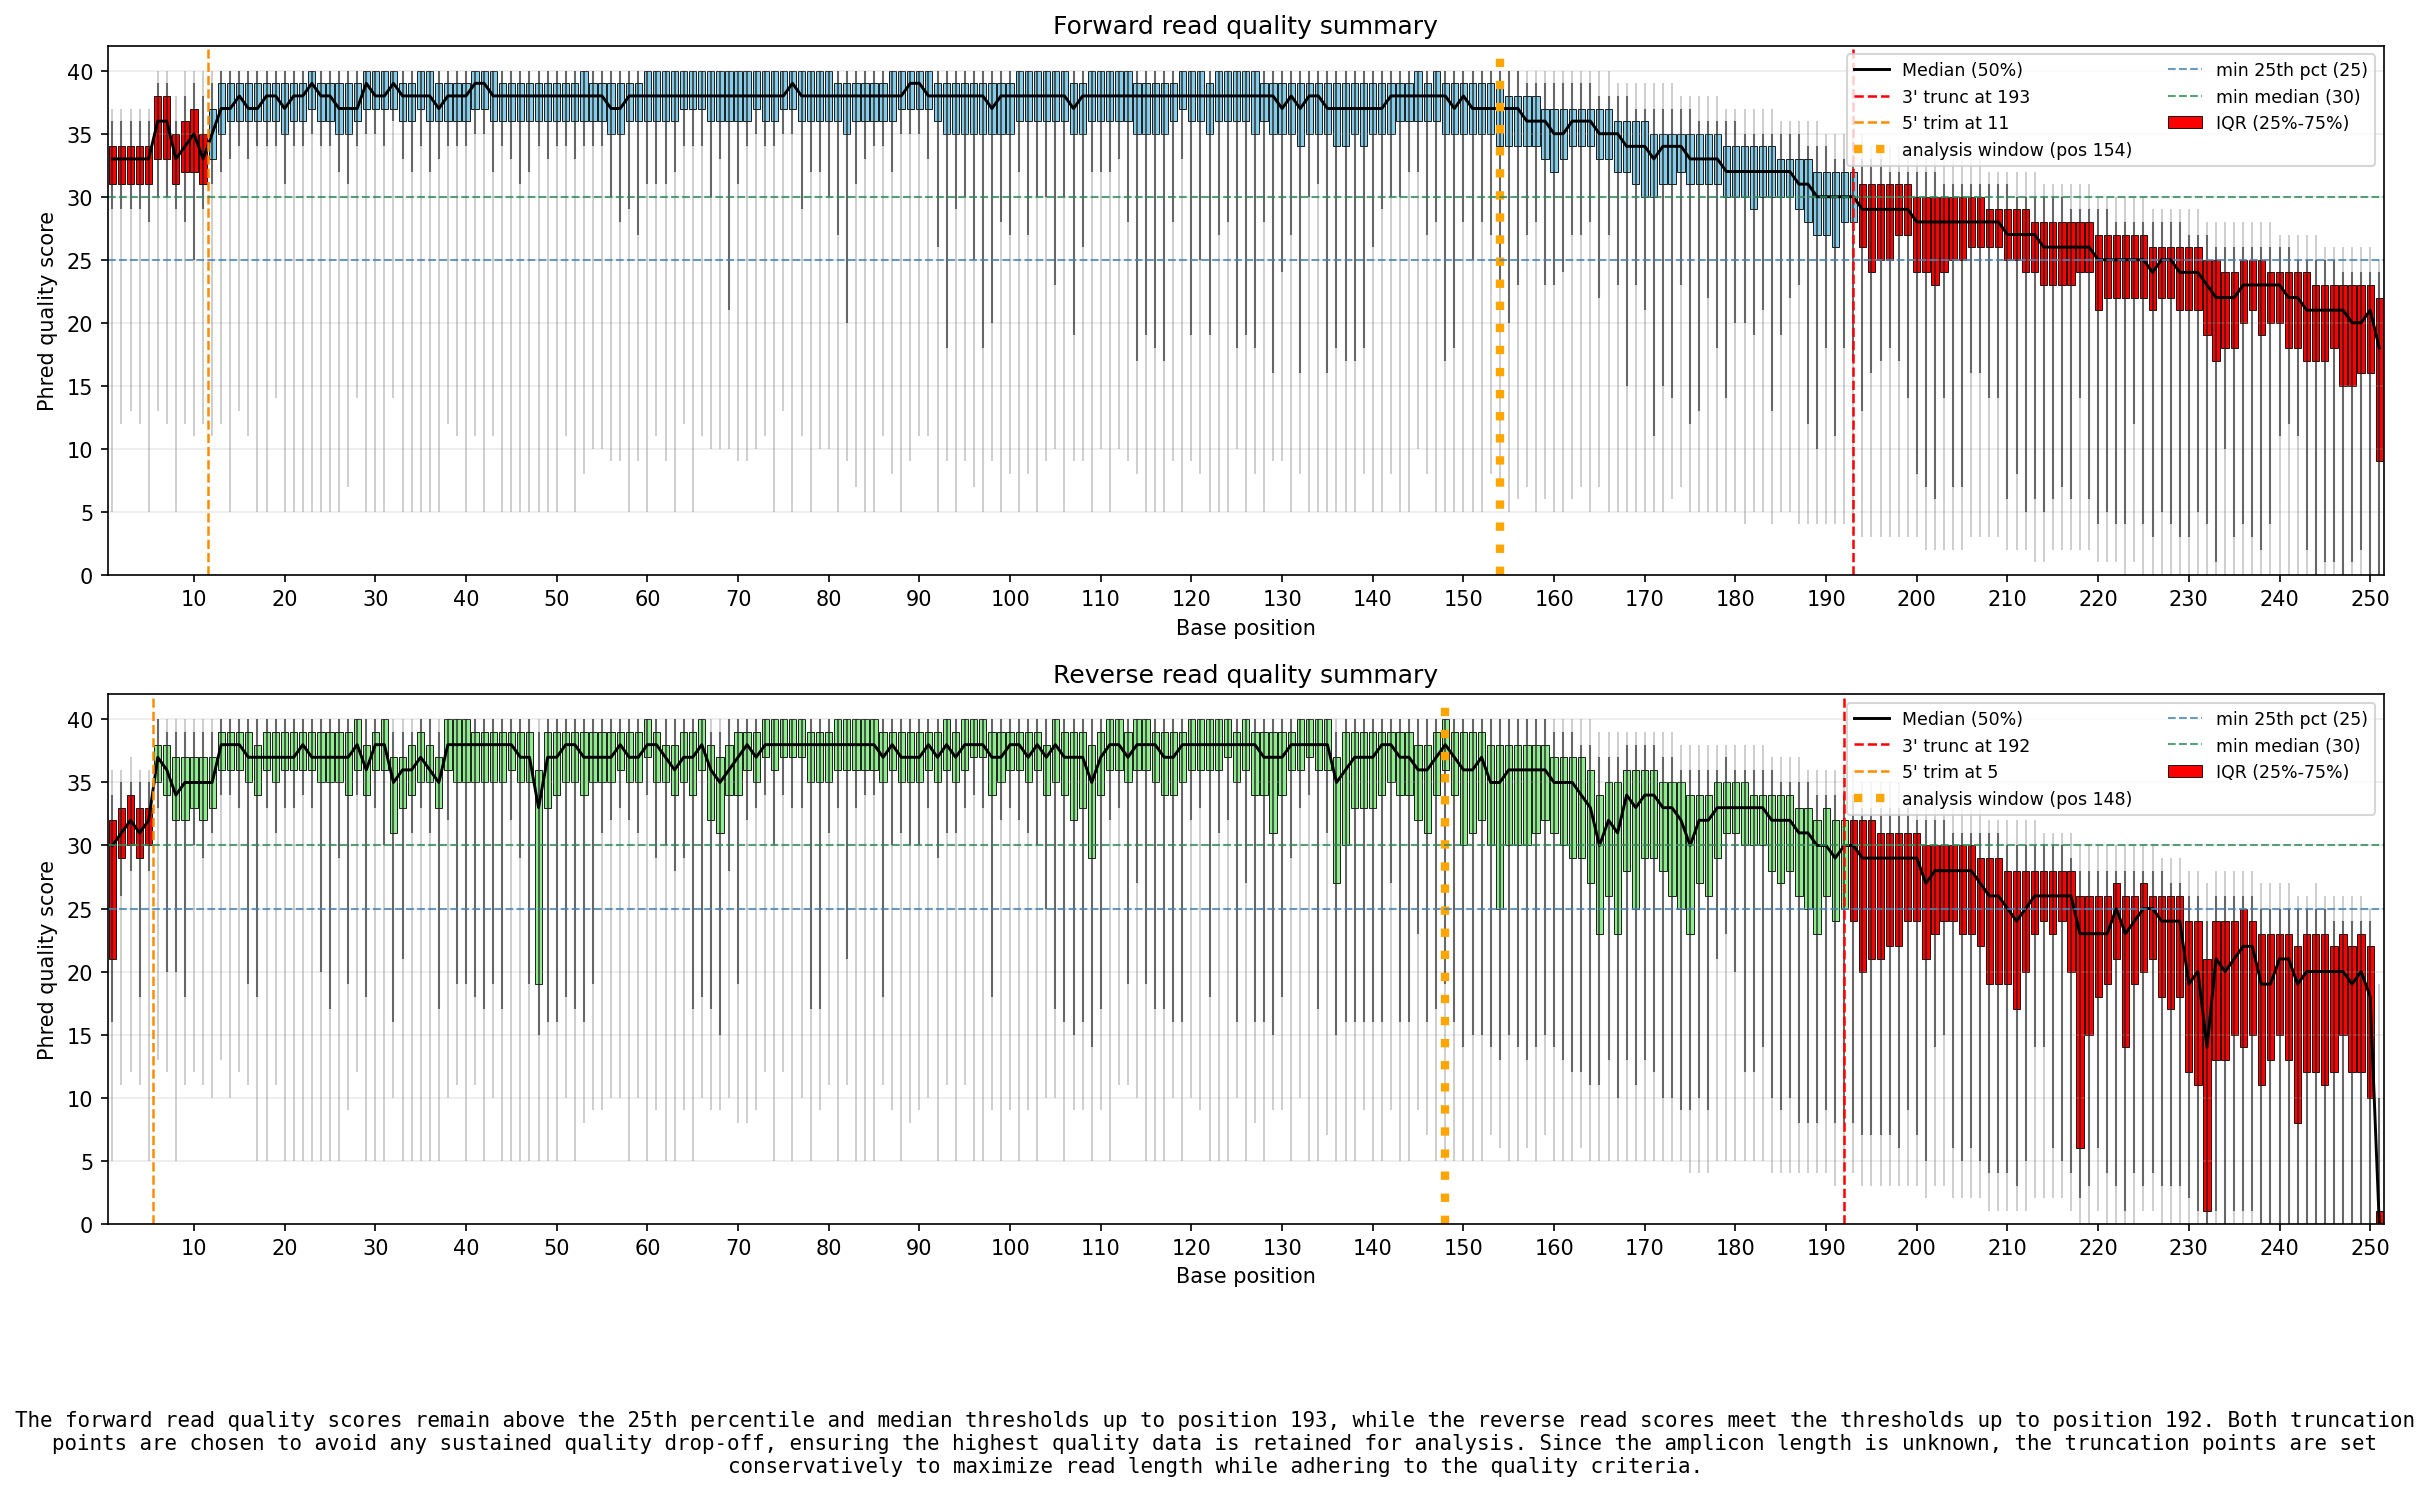
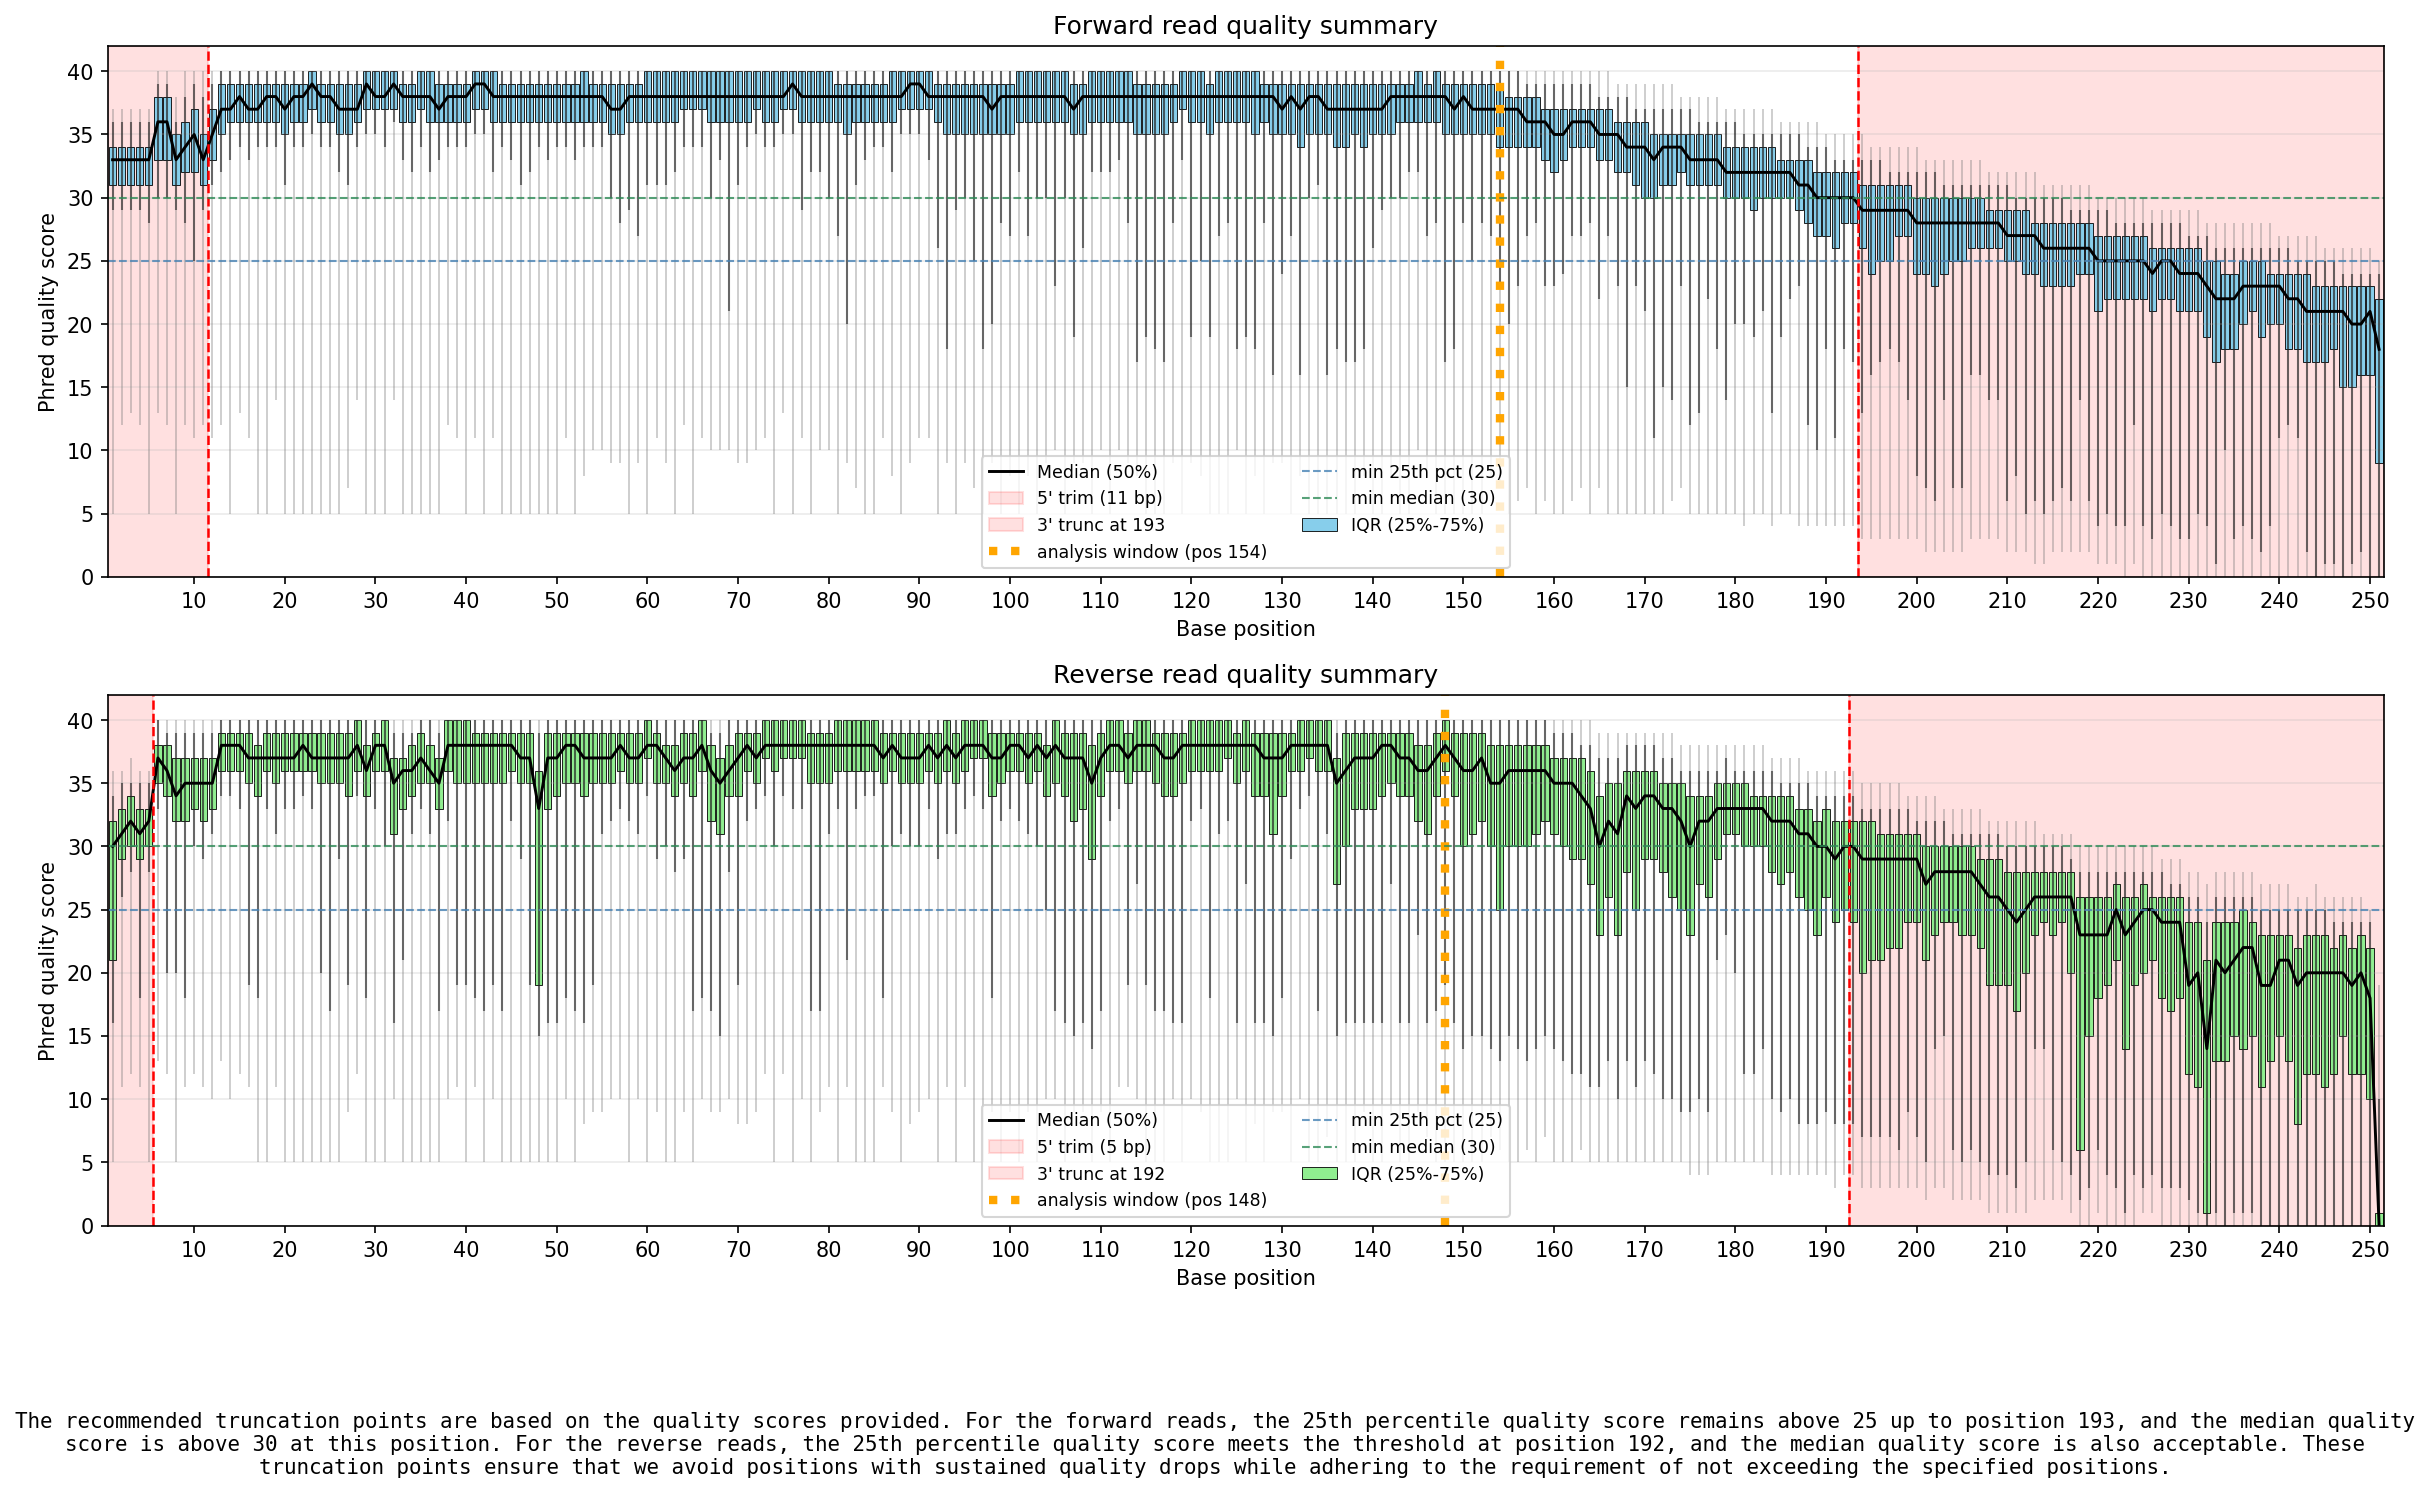
Change plotting strategy red area = filter

diff --git a/ai_fastq_choose_thresholds.py b/ai_fastq_choose_thresholds.py
@@ -74,7 +74,6 @@ def plot_quality_summary(
     label: str,
     trunc_len: int,
     base_color: str,
-    trim_color: str,
     window_start: Optional[int] = None,
     q25_threshold: float = 0,
     q50_threshold: float = 0,
@@ -85,16 +84,12 @@ def plot_quality_summary(
     box_bottom = df.loc['25%'].to_numpy()
     box_top = df.loc['75%'].to_numpy()
     box_height = box_top - box_bottom
-    bar_colors = [
-        trim_color if pos > trunc_len or (trim_left > 0 and pos <= trim_left) else base_color
-        for pos in positions
-    ]
 
     axes.bar(
         positions,
         box_height,
         bottom=box_bottom,
-        color=bar_colors,
+        color=base_color,
         edgecolor='black',
         linewidth=0.4,
         width=0.8,
@@ -109,9 +104,13 @@ def plot_quality_summary(
         axes.vlines(pos, q9[i],  q91[i], color='black', alpha=0.5,  linewidth=1.0)
 
     axes.plot(positions, df.loc['50%'].to_numpy(), color='black', linewidth=1.4, label='Median (50%)')
-    axes.axvline(trunc_len, color='red', linestyle='--', linewidth=1.2, label=f"3' trunc at {trunc_len}")
+
     if trim_left > 0:
-        axes.axvline(trim_left + 0.5, color='darkorange', linestyle='--', linewidth=1.2, label=f"5' trim at {trim_left}")
+        axes.axvspan(positions[0] - 0.5, trim_left + 0.5, alpha=0.12, color='red', zorder=0, label=f"5' trim ({trim_left} bp)")
+    axes.axvspan(trunc_len + 0.5, positions[-1] + 0.5, alpha=0.12, color='red', zorder=0, label=f"3' trunc at {trunc_len}")
+    axes.axvline(trunc_len + 0.5, color='red', linestyle='--', linewidth=1.2)
+    if trim_left > 0:
+        axes.axvline(trim_left + 0.5, color='red', linestyle='--', linewidth=1.2)
     if window_start is not None:
         axes.axvline(window_start, color='orange', linestyle=':', linewidth=4.0, label=f'analysis window (pos {window_start})')
     if q25_threshold > 0:
@@ -147,7 +146,6 @@ def build_plot(
         label='Forward',
         trunc_len=trunc_len_f,
         base_color='skyblue',
-        trim_color='red',
         window_start=fwd_window_start,
         q25_threshold=min_q_25p,
         q50_threshold=min_q_50p,
@@ -159,7 +157,6 @@ def build_plot(
         label='Reverse',
         trunc_len=trunc_len_r,
         base_color='lightgreen',
-        trim_color='red',
         window_start=rev_window_start,
         q25_threshold=min_q_25p,
         q50_threshold=min_q_50p,